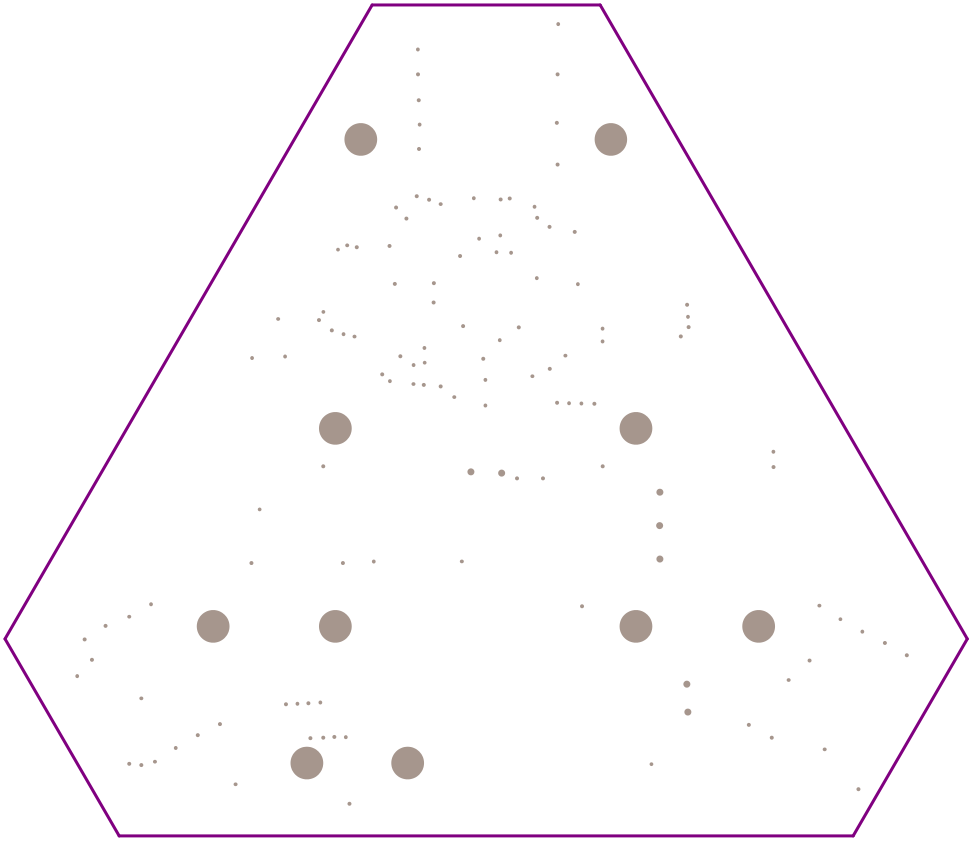
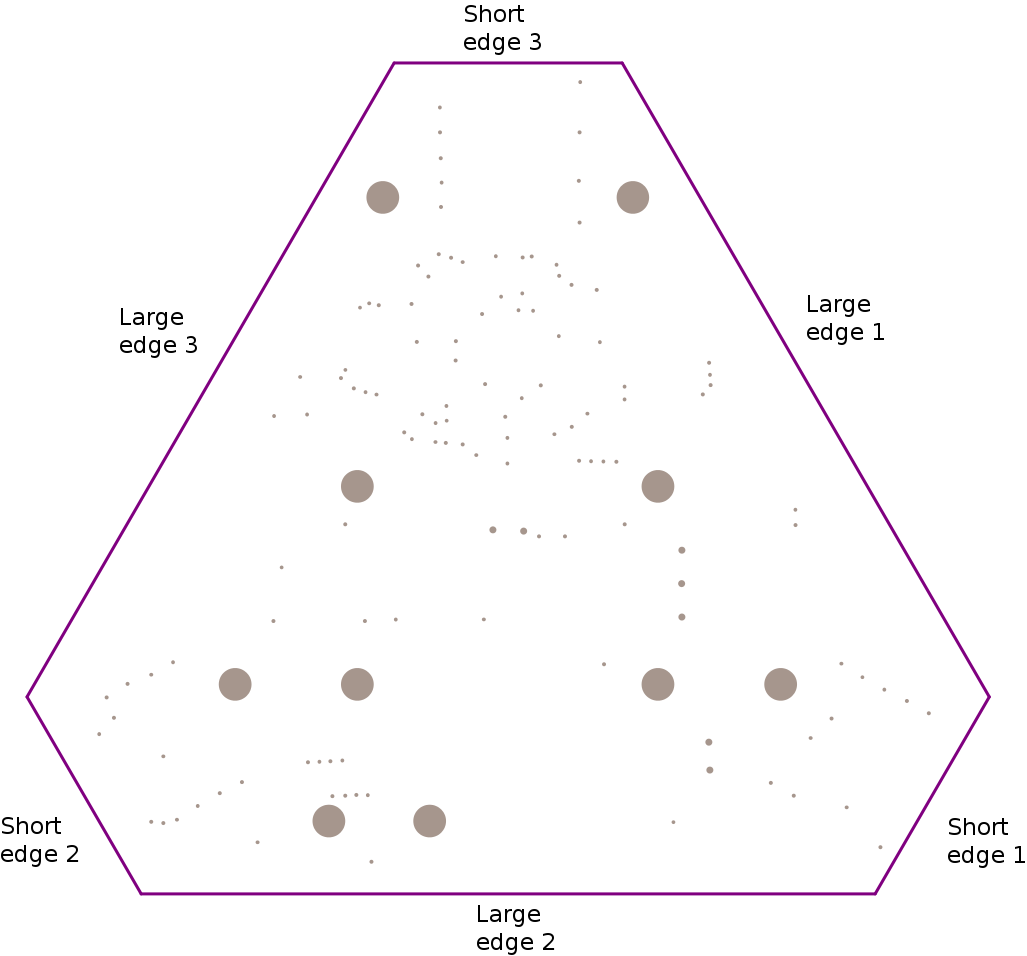
corrigiendo cap1 again

diff --git a/Capitulos/01Introduction.tex b/Capitulos/01Introduction.tex
@@ -26,19 +26,16 @@ In this chapter, a global description of the project is given. This global descr
 \label{cap1:sec:background}
 %-------------------------------------------------------------------
 
-A \ac{WSN} consists of a number of sensors spread across a geographical area. Each sensor has wireless communication capability and some level of intelligence for signal processing and data networking. \ac{WSN}s have recently emerged as a premier research topic since they provide a decentralized technological solution to address applications related to security and surveillance, industrial control, infrastructure maintenance, automatic environmental monitoring, domotics, localization, and tracking or health. They possess great long-term economic potential and ability to transform our lives.
+A \ac{WSN} consists of a number of sensors spread across a geographical area. Each sensor has wireless communication capability and some level of intelligence for signal processing and data networking. \ac{WSN}s provide a decentralized technological solution to address applications related to security and surveillance, industrial control, infrastructure maintenance, automatic environmental monitoring, domotics, localization, and tracking or health. They have recently emerged as a premier research topic due to their great long-term economic potential and ability to transform our lives.
 
 Together with this significant growth in the last years, it was a huge and yet increasing wireless networks and sevices deployment caused by the growth in the ``Internet of Things'' connectivity phenomenon\cite{internetofthings}. Wireless communications, specially due to wireless \ac{M2M} connections, is currently one of the hottest and fastest growing segments of electronics. 
 
-The increasing demand for wireless communication has caused saturation on certains bands of the radio spectrum. This fact is mainly due to an inefficient assignment of the spectrum\cite{wpanIssues}. Some of the most heavily used bands are, for instance, unlicensed bands, free of cost \ac{ISM} bands.
+The increasing demand for wireless communication, in addition to an inefficient assignment of the spectrum\cite{wpanIssues}, has caused saturation on certains bands of the radio spectrum. Some of the most heavily used bands are \ac{ISM} bands which are unlincesed, free of cost frequencies. Most \ac{WSN} solutions operate over these \ac{ISM} bands, like the 2.4 GHz band, also used by Wi-Fi, Bluetooth, or IEEE 802.15.4 devices. 
 
 \figura{Bitmap/Capitulo1/spectrum}{width=.7\textwidth}{fig:cap1:spectrum}%
 {Electromagnetic frequency spectrum. Radio spectrum covers under 300 GHz frequencies}
 
-Regarding spectrum scarcity, most \ac{WSN} solutions operate on unlicensed frequency bands. Normally they use \ac{ISM} bands,
-like the 2.4 GHz band, also used by Wi-Fi, Bluetooth, or IEEE 802.15.4 devices. 
-
-Spectrum saturation is reflected over the increasing \ac{RF} interferences and other undesirable effects like noise, with a consistent impact over the \ac{TX} power required, \ac{QOS}, etc. These troubles find their origin in the increasing amount of traffic, the heterogeneous networks and devices, and the inefficient use of the spectrum. Nowadays, techniques focused on expanding spectrum efficiency over communications, such as those related to dynamic channel allocation, power control or link adaptation, seem exhausted, and new long-term solutions are required. 
+Spectrum saturation is reflected over the increasing \ac{RF} interferences and other undesirable effects like noise, with a consistent impact over the \ac{TX} power required, \ac{QOS}, etc. Nowadays, techniques focused on expanding spectrum efficiency over communications, such as those related to modulation, power control or link adaptation, seem exhausted, and new long-term solutions are required****\cite{}. 
 
 To address this challenge, new techniques such as \ac{CR} arise. \ac{CR} was introduced by Mitola in 1999 \cite{mitola1}
 and 2000\cite{mitola2}. It integrates into communication networks concepts such as spectrum sensing, self-learning, self-management, 
@@ -46,22 +43,18 @@ or context analysis. Basically, \ac{CR} enables opportunistic access to the spec
 awareness. Spectrum sensing capabilities and cooperation among devices allow for better spectrum utilization and \ac{QOS}.
 The concept of \ac{CN} describes a \ac{WN} aware of its environment and able to adapt its communication parameters in order to achieve more reliable and efficient communications.
 
-\ac{WSN}s, among other technologies, maintain a high demand for cognitive networking. Their imposed power consumption constraints and hard operation conditions require an efficient operation mode, especially for their wireless communications, since these normally constitute the most energy-consumming task. However, there are also challenges to face\cite{challenges}, such as opportunistic energy-efficient transport.
+\ac{WSN}s, among other technologies, maintain a high demand for cognitive networking. Their imposed power consumption constraints and hard operation conditions require an efficient operation mode, especially for their wireless communications, since these normally constitute the most energy-consumming task. However, there are also challenges to face\cite{challenges}, such as an adaptive and \ac{QOS}-aware routing, or the distribution of control data.
 
-Despite the potential of \ac{CWSN}, they are not deeply explored yet. Real or simulated scenarios scarcely exist, but 
+*********Despite the potential of \ac{CWSN}, they are not deeply explored yet. Real or simulated scenarios scarcely exist, but 
 realistic platforms are crucial to the improvement and development of this new field. The shortage and undevelopment of \ac{CWSN} devices
 or test-beds contributes to the scarcity of results in this area. 
 
-One of the current \ac{CWSN} node platforms is the \ac{FCD}, developed in 2011\cite{fcd} by researchers at the laboratory where this project is framed, the \ac{LSI}. The \ac{LSI} belongs to the \ac{DIE} within the \ac{ETSIT} at \ac{UPM}. This laboratory hosts researching lines related to embedded systems, \ac{WSN}s, and security. The implemented device become the first real generic platform to study \ac{CWSN}s hosting three radio transceivers, but it was just a initial approach. The \ac{FCD} was still far from being a very valuable researching test-bed platform. This platform did not fully satisfy requirements in terms of low power consumption, functionality, cost and size, and communication capabilities. 
+One of the current \ac{CWSN} node platforms is the \ac{FCD}, developed in 2011\cite{fcd} by researchers at the laboratory where this project is framed, the \ac{LSI}. The \ac{LSI} belongs to the \ac{DIE} within the \ac{ETSIT} at \ac{UPM}. This laboratory hosts researching lines related to embedded systems, \ac{WSN}s, \ac{CWSN}s, or security. The implemented device become the first real generic platform to study \ac{CWSN}s hosting three radio transceivers, but it was just a initial approach. The \ac{FCD} was still far from being a very valuable researching test-bed platform. This platform did not fully satisfy requirements in terms of low power consumption, functionality, cost and size, and communication capabilities. 
 
 Continuing with the development of the \ac{FCD}, some software implementations were carried out at \ac{LSI}. A combined protocol stack for
-three different transceivers, including a \ac{HAL}, described in \cite{juanpfc}, was created. This firmware offers
-to the application layers ease of use facing communication tasks and it supposes memory and resources savings compared with
-the previous scheme, based on three protocol stacks. As well, in order to deal with cognitive strategies and algorithmics, a software module
-that runs together with the application layer was launched. This module, called \ac{CRMODULE} implements the theoretical model described
-in \cite{conbrok} and is a crucial achievement for \ac{CWSN} development.  
+three different transceivers \cite{juanpfc}, including a \ac{HAL}, was created. This firmware offers ease of use to the researchers facing communication tasks. It also supposes memory and resources savings compared with the previous scheme, based on three protocol stacks. In order to deal with cognitive strategies and algorithmics, in addition, a software module that runs over the firmware was launched. This module, called \ac{CRMODULE}\cite{}************ implements the theoretical model described in \cite{conbrok} and is a crucial achievement for \ac{CWSN} development.  
 
-This dissertation describes the development and operation of the \ac{CNGD}, a node platform for \ac{CWSN} development. It includes features and capabilities not found on current devices. \ac{CNGD} must enable and promote \ac{CWSN}s, allowing test strategies and better investigation deployments. The final implementation must integrate the developed software modules \ac{HAL} and \ac{CRMODULE} together with a demo application layer that show the full operation of the device. 
+This dissertation describes the development and operation of the \ac{CNGD}, a platform for \ac{CWSN} development. It includes features and capabilities not found on current devices. \ac{CNGD} must enable and promote \ac{CWSN}s, allowing test strategies and better investigation deployments.
 
 %-------------------------------------------------------------------
 \section{Goals}
@@ -69,11 +62,13 @@ This dissertation describes the development and operation of the \ac{CNGD}, a no
 \label{cap1:sec:goals}
 %-------------------------------------------------------------------
 
-The main goal of the project is to design and implement a node for a \ac{CWSN}. The implementation must meet strong efficiency, functionality, modularity and scalability requirements. A demo application layer, also to be developed, must integrate the already implemented \ac{HAL} and \ac{CRMODULE}. 
+The main goal of the project is to design and implement a node for a \ac{CWSN}. The implementation must meet strong efficiency, functionality, modularity and scalability requirements. A demo application layer, also to be developed, must work integrated with the already implemented firmware. 
 
 \ac{CWSN} nodes are very limited devices in terms of memory, computational power, or energy consumption. This fact is crucial and it must be taken into account in order to make the device valuable and affordable for researching purposes. 
 
-The design must be modular, so it will not need to be entirely redone  with every particular change, and scalable, to allow flexibility in the complexity and character of applications. On the other hand, as a development platform, the software and hardware architecture must provide advantages when implementing cognitive strategies as a valuable tool (data extraction, data reliability, portability, versatility, etc.).
+The design must be modular, so it will not need to be entirely redone  with every particular change, and adaptable, to allow flexibility in the complexity and character of applications. On the other hand, as a development platform, the software and hardware architecture must provide advantages when implementing cognitive strategies as a valuable tool (data extraction, data reliability, portability, versatility, etc.). 
+
+Hence, it is needed to reach a complete solution covering all these features.
 
 It is important to make clear that the design must fill the gaps and deficiencies that current devices show, for example, providing a wider radio access, powering control options, or real \ac{WSN} features. Furthermore, a definition of new needs, together with an important review of the \ac{FCD}, are needed. 
 
@@ -89,20 +84,17 @@ to provide new data of interest. These data will help in making decisions about 
 (cost, resources, size, consumption, etc.) according to the future running applications.
 Definition of features and requirements. Definition of the demo application.
 
-\item \emph{Hardware design}. Pursuit of deficiencies in 
-the \ac{FCD} design and possible beneficial potentialities 
-to achieve the new defined requirements. Design optimization.
-Components selection and final layout development. 
+\item \emph{Hardware design}. Global design of the platform and new envolved. Development of schematics. Design optimization.
+Components selection and final layout deployment. 
 
 \item \emph{Hardware debugging and implementation}.
 Component disposition and soldering. PCB design validation.
 
 \item \emph{Application layer development}.
-Integration of the \ac{HAL} and \ac{CRMODULE} into the hardware.
-Development of the demo application layer integrating
-the two already named software modules enabling a 
-full test of the platform. The application will include
-typical \ac{WSN} functionalities.
+Full adaptation of the firmware to the hardware.
+Development of the demo application layer that uses the firmware and
+allows a full test of the platform. The demo will be a
+typical \ac{WSN} application.
 
 \item \emph{General purpose tests}. 
 Tests oriented to prove the proper operation and verify
@@ -146,8 +138,6 @@ This phase covered from the first definitions and node specifications, to the sy
 
 \item Radio wireless interfaces and other used components evaluation (microcontroller, serial interfaces...).
 
-\item Design optimizations respect to the \ac{FCD}.
-
 \item Hardware full design. Selection of the components. Design adjustments and previous work verification. Layout design.
 
 \item Hardware platform implementation.
@@ -160,7 +150,7 @@ Once the hardware was operating, the work turned over the software. Goals:
 
 \begin{itemize}
 
-\item Integration of the developed \ac{HAL} and \ac{CRMODULE} into the hardware.
+\item Full adaptation of the developed firmware to the hardware.
 
 \item Software implementation of required functions and application. Source code debugging.
 
@@ -183,7 +173,7 @@ and future development lines. Found problems evaluation.
 
 \item \emph{Documentation generation}.
 
-Dissertation and other required documentation (wiki, papers, manuals,etc.) writing. Dissertation will be ellaborated under \LaTeX\cite{latex}. Review of the software documentation.
+Dissertation and other required documentation (wiki, papers, manuals, etc.) writing. Dissertation will be ellaborated under \LaTeX\cite{latex}. Review of the software documentation.
 
 \end{itemize}
 %-------------------------------------------------------------------

diff --git a/Capitulos/05ImplementationStudy.tex b/Capitulos/05ImplementationStudy.tex
@@ -93,23 +93,24 @@ MRF49XA datasheet provides hints for the inclussion of the transceiver into a \a
 \begin{table}[h]
 \centering
 \scalebox{0.9}{
-\begin{tabular}{||l l l l||}
+\begin{tabular}{||l l l l c||}
 \hline
-\textbf{Symbol} & \textbf{Nominal Value} (434/868) & \textbf{Description} & \textbf{Package Type} \\ \hline
-C2 & 0.01$\mu$F & Ceramic Capacitor  & 0603 \\ \hline
-C3 & 2.2$\mu$F & Tantalum Capacitor & 1206 \\ \hline
-X1 & 10MHZ & QUARTZ CRYSTAL & 5 x 3.2 mm SMD \\ \hline
-MRF49XA &  & MRF49XA-I/ST - TRANSCEIVER, RF & 16-TSSOP \\ \hline
-J1 &  & 50 $\Omega$ Coaxial SMA Jack  &  Through Hole \\ \hline
-D1 &  & Light Emitting Diode & 0603 \\ \hline
-R1 & 300 $\Omega$ & Resistor & 0603 \\ \hline \hline 
-C1 & 220 pF/47 pF & Ceramic Capacitor  & 0603 \\ \hline
-C5 & 2,7 pF/1,2 pF & Ceramic Capacitor  & 0603 \\ \hline
-C6 & 68 pF/27 pF & Ceramic Capacitor  & 0603 \\ \hline
-C7 & 5.1 pF/2,7 pF & Ceramic Capacitor  & 0603 \\ \hline
-L1 & 390 nH/100 nH & Inductor & 0603 \\ \hline
-L2 & 33 nH/8.2 nH & Inductor & 0603 \\ \hline
-L3 & 47 nH/22N nH & Inductor & 0603 \\ \hline
+\multirow{2}{*}{\textbf{Symbol}} & \textbf{Nominal Value}  & \multicolumn{1}{c}{\multirow{2}{*}{\textbf{Description}}} & \multicolumn{1}{c}{\textbf{Package}} & \multirow{2}{1cm}{\textbf{Quant.}}. \\
+ & \multicolumn{1}{c}{(434/868)} & & \multicolumn{1}{c}{\textbf{Type}} & \\ \hline \hline
+C2 & 0.01$\mu$F & Ceramic Capacitor  & 0603 & 1\\ \hline
+C3 & 2.2$\mu$F & Tantalum Capacitor & 1206 & 1 \\ \hline
+X1 & 10MHZ & QUARTZ CRYSTAL & 5 x 3.2 mm SMD & 1\\ \hline
+MRF49XA &  & MRF49XA-I/ST - TRANSCEIVER, RF & 16-TSSOP & 1 \\ \hline
+J1 &  & 50 $\Omega$ Coaxial SMA Jack  &  Through Hole & 1\\ \hline
+D1 &  & Light Emitting Diode & 0603 & 1\\ \hline
+R1 & 300 $\Omega$ & Resistor & 0603 & 1\\ \hline \hline 
+C1 & 220 pF/47 pF & Ceramic Capacitor  & 0603 & 1\\ \hline
+C5 & 2,7 pF/1,2 pF & Ceramic Capacitor  & 0603 & 1\\ \hline
+C6 & 68 pF/27 pF & Ceramic Capacitor  & 0603 & 1\\ \hline
+C7 & 5.1 pF/2,7 pF & Ceramic Capacitor  & 0603 & 1\\ \hline
+L1 & 390 nH/100 nH & Inductor & 0603 & 1\\ \hline
+L2 & 33 nH/8.2 nH & Inductor & 0603 & 1\\ \hline
+L3 & 47 nH/22N nH & Inductor & 0603 & 1\\ \hline
 \end{tabular}}
 
 \caption{Component description for $\mu$Trans 434/868.%
@@ -126,7 +127,6 @@ Different layers of the layout can be obseved at Appendix \ref{ap2:layouts}. Fig
 %-------------------------------------------------------------------
 \subsection{Prototype mounting and testing}
 %-------------------------------------------------------------------
-
 Basic tests to check proper functionality were made while prototyping the module.
 
 Firstly, the modules were tested over the \ac{FCD} platform. For this, the $\mu$Trans pads were wired and connected to header prepared for the MRF49XA PICtail Plus Daughter Board. Over this platform and making use of a multi-probe oscilloscope, \ac{SPI} communication signals and others were checked, and possible errors debbuged.
@@ -158,7 +158,7 @@ After this, and in collaboration with other MRF49XA modules, it was checked that
 
 \begin{figure}
         \centering
-		\includegraphics[height=297px]{Imagenes/Vectorial/Capitulo5/cngdshape}  
+		\includegraphics[height=320px]{Imagenes/Vectorial/Capitulo5/cngdshape}  
         \caption{cNGD PCB real size shape. 97x84 mm}
         \label{fig:cap5:cngdshape}
 \end{figure}
@@ -166,10 +166,7 @@ After this, and in collaboration with other MRF49XA modules, it was checked that
 The \ac{CNGD} \ac{PCB} has to implement the whole design described in Section \ref{cap4:sec:cNGD} attending to expand functionality and usability, and reducing size and cost. Since this is key board of the whole system, most part of the weight ot the operation requirements relies on it. It must mainly contain the three \ac{RI}s, give support to expansion modules, include the power supply and battery room, programming system, and microcontroller. In addition, it must provide an easy access to the control modules (leds and push buttons) and easy deployment. Regading its test-bed character, the module must include some kind of anchors to fix it anywhere or incrust some feet. All these features must be achieved keeping size and cost limited, so the module become affordable and valuable. Figure \ref{fig:cap5:cngdshape} shows the \ac{PCB} shape.
 
 
-
-
-
-Power supply system, $\mu$USB and PGE connector are gathered together as entire interfacing slot at large edge 2 of the \ac{PCB}. \ac{RI}s are thought to be placed at the three short edges. 434 MHz \ac{RI} at edge 1, 868 MHZ \ac{RI} at edge 2 and 2.4 GHz \ac{RI} at edge 3. Figure \ref{fig:cap5:cngdfront} can give a better view of these ideas.  
+Power supply system, $\mu$USB and PGE connector are gathered together as entire interfacing slot at the large edge 2 of the \ac{PCB}. \ac{RI}s are thought to be placed at the three short edges. 434 MHz \ac{RI} at edge 1, 868 MHZ \ac{RI} at edge 2 and 2.4 GHz \ac{RI} at edge 3. Figure \ref{fig:cap5:cngdfront} can give a better view of these ideas.  
 
 The board includes four holes for the battery to be attached. Figure \ref{fig:cap5:headersystem} ilustrates the way it works, for legs fix together the board and the batteries-holder. Moreover, the \ac{PCB} includes more holes for general purpose in case of feet or fixing are required.
 
@@ -184,7 +181,7 @@ The board includes four holes for the battery to be attached. Figure \ref{fig:ca
 \label{fig:cap5:headersystem}
 \end{figure}
 
-Headers module has been placed relying on the two upper long edges, Figure \ref{fig:cap5:cngdheader} shows it. Future expansion modules will be attached to this module through exctly equal headers on them, this way it will be possible to stack several expansion modules ones above others. The headers footprint to include in future expansion modules to fit the design is ilustrated in Figure \ref{fig:cap5:headerfootprint}.
+Headers module has been placed relying on the large edges 1 and 3, Figure \ref{fig:cap5:cngdheader} shows it. Future expansion modules will be attached to this module through exctly equal headers on them, this way it will be possible to stack several expansion modules ones above others. The headers footprint to include in future expansion modules to fit the design is ilustrated in Figure \ref{fig:cap5:headerfootprint}.
 
 \begin{figure}[h]
 \centering
@@ -203,23 +200,24 @@ The minimum spacing among tracks is set to 0.1 mm around the \ac{MCU} and 0.2 mm
 \begin{table}[h]
 \centering
 \scalebox{0.9}{
-\begin{tabular}{||l l l l||}
+\begin{tabular}{||l l l l c||}
 \hline
-\textbf{Symbol} & \textbf{Nominal Value} (434/868) & \textbf{Description} & \textbf{Package Type} \\ \hline
-C2 & 0.01$\mu$F & Ceramic Capacitor  & 0603 \\ \hline
-C3 & 2.2$\mu$F & Tantalum Capacitor & 1206 \\ \hline
-X1 & 10MHZ & QUARTZ CRYSTAL & 5 x 3.2 mm SMD \\ \hline
-MRF49XA &  & MRF49XA-I/ST - TRANSCEIVER, RF & 16-TSSOP \\ \hline
-J1 &  & 50 $\Omega$ Coaxial SMA Jack  &  Through Hole \\ \hline
-D1 &  & Light Emitting Diode & 0603 \\ \hline
-R1 & 300 $\Omega$ & Resistor & 0603 \\ \hline \hline 
-C1 & 220 pF/47 pF & Ceramic Capacitor  & 0603 \\ \hline
-C5 & 2,7 pF/1,2 pF & Ceramic Capacitor  & 0603 \\ \hline
-C6 & 68 pF/27 pF & Ceramic Capacitor  & 0603 \\ \hline
-C7 & 5.1 pF/2,7 pF & Ceramic Capacitor  & 0603 \\ \hline
-L1 & 390 nH/100 nH & Inductor & 0603 \\ \hline
-L2 & 33 nH/8.2 nH & Inductor & 0603 \\ \hline
-L3 & 47 nH/22N nH & Inductor & 0603 \\ \hline
+\multirow{2}{*}{\textbf{Symbol}} & \textbf{Nominal Value}  & \multicolumn{1}{c}{\multirow{2}{*}{\textbf{Description}}} & \multicolumn{1}{c}{\textbf{Package}} & \multirow{2}{1cm}{\textbf{Quant.}}. \\
+ & \multicolumn{1}{c}{(434/868)} & & \multicolumn{1}{c}{\textbf{Type}} & \\ \hline \hline
+J1 &  & MICRO USB A/B  & SMD & 1\\ \hline
+C1,3-9 & 100 nF & Ceramic Capacitor & 0603 & 8 \\ \hline
+C2 & 10 $\mu$F & Pol. Capacitor & 1206 & 1\\ \hline
+C10,11 & 4.7 $\mu$F & Ceramic Capacitor & 0603 & 2 \\ \hline
+C12-14 & 1 $\mu$F & Ceramic Capacitor &  0603 & 3\\ \hline
+C15,16 & 15 pF  & Ceramic Capacitor & 0603 & 2\\ \hline
+C17,18 & 30 pF  & Ceramic Capacitor & 0603 & 2\\ \hline
+R1,8,9,12,13 & 10 K$\Omega$ & Resistor  & 0603 & 1\\ \hline
+R4 & 10 $\Omega$ & Resistor  & 0603 & 1\\ \hline
+R2,5-7,15 & 330 $\Omega$ & Resistor  & 0603 & 5\\ \hline
+R15 & 510 $\Omega$ & Resistor  & 0603 & 1\\ \hline
+Y1 & 32.768 KHz & 12.5pF Load capacitance crystal & Through hole & 1\\ \hline
+Y2 & 8 MHz & 20 pF Load capacitance crystal  & SMD & 1\\ \hline
+PGE &  & RJ-11 Connector & & 1\\ \hline
 \end{tabular}}
 
 \caption{Component description for cNGD.%
@@ -274,8 +272,8 @@ This module is an expansion board or shield for the \ac{CNGD} module. The \ac{CN
         \caption{rs232SHIELD PCB real size shape. 67.9x33 mm.}
         \label{fig:cap5:rs232shape}
 \end{figure}
-
-Available \ac{UART}s at the headers are  **** and ****, presenting the first one hardware flow control and not presenting it the second one. \ac{UART} module chosen for serial communication is ************, because the communication does not require hardware flow control. The \ac{RX} signal is shorted to pin 21 and \ac{TX} signal to pin 38.
+% HABLAR DEL ENCAPSULADO DEL MAX3232 y de los headers que incluye
+The \ac{RX} signal is shorted to pin 21 and \ac{TX} signal to pin 38.
 
 In addition, the module contains a RS-232 male connector to be connected to the computer or other device. Minimal track spacing is set to 0.2 mm while the tracks width is from 0.2 mm to 1.2 mm on power tracks. Vias keep set to a 0.4 mm diameter. Table \ref{tab:cap5:rs232components} details the components needed for this module. 
 
@@ -314,6 +312,8 @@ Different layers of the layout can be obseved at Appendix \ref{ap2:layout}. Figu
 %-------------------------------------------------------------------
 This module offers simplicity and does not require for much testing. Basically, the whole module is properly soldered and plugged into the \ac{CNGD} headers. Firmware must be configured to debug over the UART number 3. 
 
+
+
 Connecting the RS-232 connector to a computer and with a suitable software, such as minicom\footnote{Minicom is a text-based modem control and terminal emulation program for Unix-like operating systems. A common use for minicom is when setting up a remote serial console.}, and configuring properly the communication parameters, is enough to receive data from the running application.
 
 Usually, communication parameters are set as follows: ************************* (However these can be change at the firmware configuration).
@@ -346,7 +346,7 @@ Battery positive pole is accessible at the header on pin 29, negative pole is at
 
 Current version of the charger does not include any heat disipator. Tests showed that not heat disipator was required for the current configuration. Any change over the resistors configuration must consider the overheating possibility on LM317AMDT component. Thus a heat disipator could be needed.
 
-Minimal track spacing is set to ******* while the tracks width is ******. Vias *******************. Table \ref{tab:cap5:chargercomponents} details the components needed for this module. 
+Minimal track spacing is set to 0.2 mm while the tracks width is is from 0.2 mm to 1.2 mm on power tracks. Vias posses a minimum through hole of 0.4 mm diameter. Table \ref{tab:cap5:chargercomponents} details the components needed for this module. 
 
 
 \begin{table}[h]

diff --git a/Tesis.tex b/Tesis.tex
@@ -156,9 +156,9 @@ constantes,guionado,Cascaras/bibliografia,config%
 \mainmatter
 \restauraCabecera
 
-\include{Capitulos/01Introduction}
-\include{Capitulos/02StateOfArt}
-\include{Capitulos/03ReviewStudy}
+%\include{Capitulos/01Introduction}
+%\include{Capitulos/02StateOfArt}
+%\include{Capitulos/03ReviewStudy}
 \include{Capitulos/04DesignStudy}
 \include{Capitulos/05ImplementationStudy}
 \include{Capitulos/06Software}
